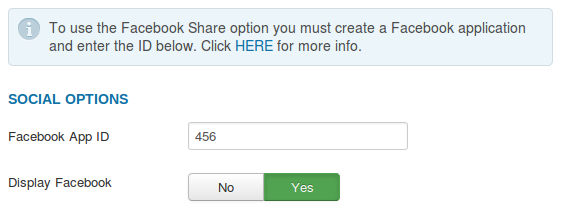
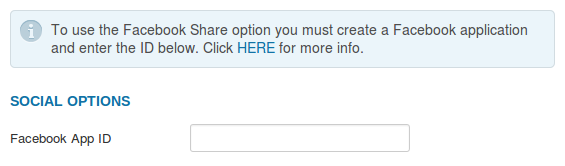
More updates for version 0.1.8

diff --git a/docs/joomla/extensions/social/guide.md b/docs/joomla/extensions/social/guide.md
@@ -453,7 +453,7 @@ border color but only if you selected yes to **Display Borders** in the
 **General Display Options** section. This border will surround the
 **Bookmark This** part of the module. You can enter a \# followed by a
 color reference code such as \#000000 for black or you can use the color
-chooser box to the right of the input field. The last option is used to display some text above the **Bookmark This** section of the module.*\[Figure-10a\]*
+chooser box to the right of the input field. The last option is used to display some text above the **Bookmark This** section of the module. *\[Figure-10a\]*
 
 ![Figure-10a](images/docs/joomla/extensions/social-links/cw-slinks-mod-config-bookmark2.png "Figure-10a"){.coalaweb-docs}
 
@@ -461,12 +461,11 @@ chooser box to the right of the input field. The last option is used to display 
 
 #### Part 1 - Facebook
 
-*\[Figure-10b\]*
+Facebook has announced that they have deprecated the **Sharer** code in preference of their new **Share Dialog** system, which requires a Facebook App ID. If you plan to display the Facebook button you will need to create an application **first** and then copy and paste the **ID** into the field provided. For more info on how this is done read below.*\[Figure-10b\]*
 
 ![Figure-10b](images/docs/joomla/extensions/social-links/cw-slinks-mod-config-bookmark3.png "Figure-10b"){.coalaweb-docs}
 
-
-### 1. <a name="mod-bookmark-fbapp"></a>Create Facebook Application
+### <a name="mod-bookmark-fbapp"></a>Create Facebook Application
 
 To get a **Facebook App ID** requires you to first create a Facebook Application but don’t worry it’s an easy process which we will walk your through in this ![GUIDE](http://coalaweb.com/support-menu/documentation/item/create-facebook-application "Facebook App Guide").
 
@@ -490,7 +489,7 @@ border color but only if you selected yes to **Display Borders** in the
 **General Display Options** section. This border will surround the
 **Follow Us** part of the module. You can enter a \# followed by a color
 reference code such as \#000000 for black or you can use the color
-chooser box to the right of the input field. *\[Figure-11\]*
+chooser box to the right of the input field. The last option is used to display some text above the **Bookmark This** section of the module. *\[Figure-11\]*
 
 ![Figure-11](images/docs/joomla/extensions/social-links/cw-slinks-mod-config-follow1.png "Figure-11"){.coalaweb-docs}
 
@@ -535,7 +534,7 @@ to stop conflicts. You can also give the it a **Module Class Suffix** or
 choose whether to use **Cache** including the **Cache Time**. There is
 also an option to turn off the **Module css** if you want to add your
 own styling. Next is the **NoFollow** option that provides a way to tell
-search engines not to follow a particular link. *\[Figure-12\]*
+search engines not to follow a particular link. In the last option you can choose to have the links open a new browser tab when clicked or open in a small popup window. *\[Figure-12\]*
 
 ![Figure-12](images/docs/joomla/extensions/social-links/cw-slinks-mod-config-advanced1.png "Figure-12"){.coalaweb-docs}
 
